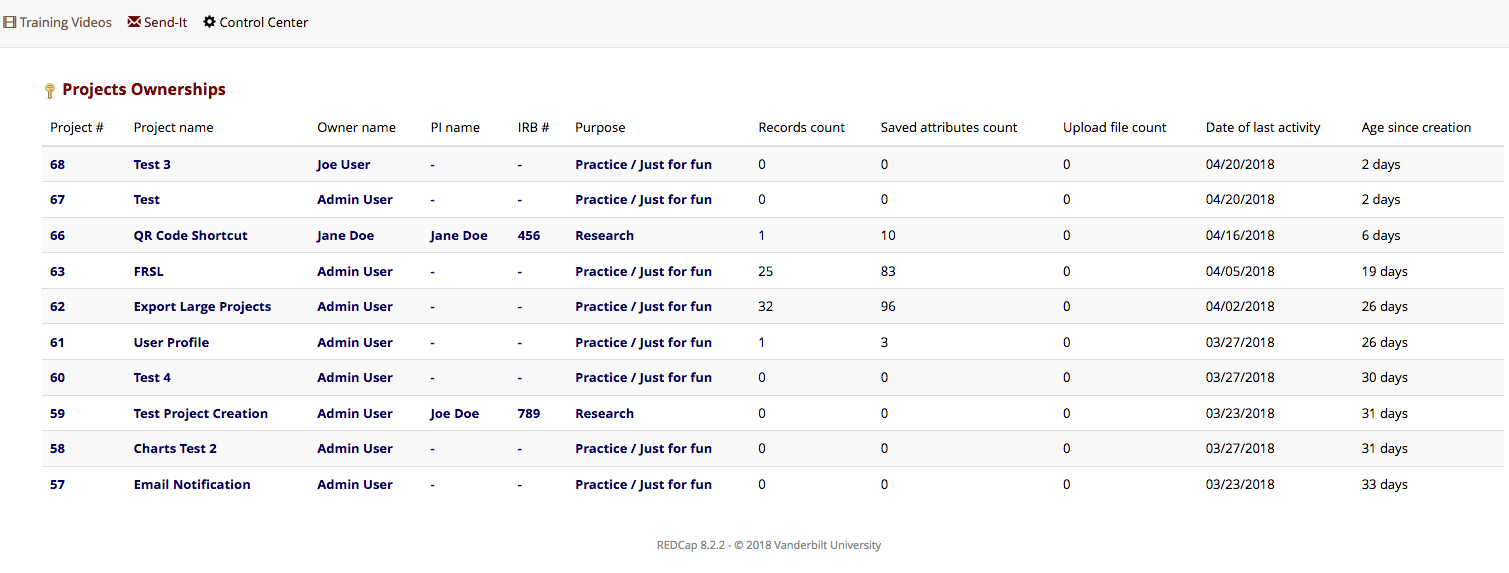
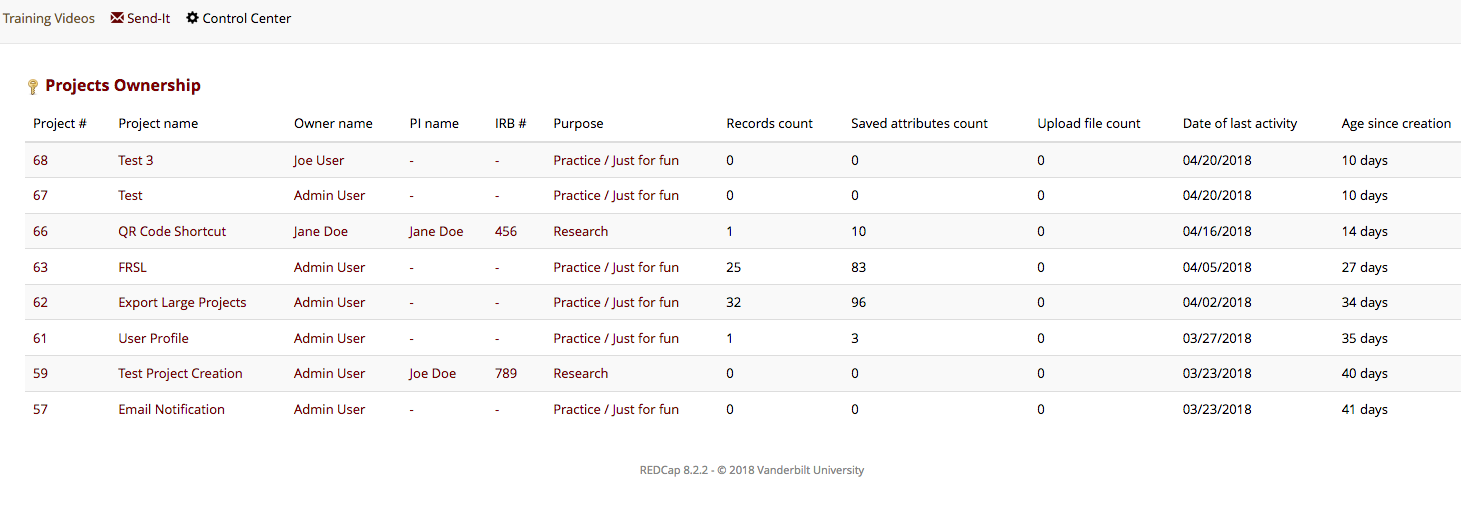
Relocating the link to the project ownership list plugin.

diff --git a/css/my-projects.css b/css/my-projects.css
@@ -1,0 +1,9 @@
+.ownership-list-helper {
+    padding: 0;
+    margin-bottom: 15px;
+}
+
+.ownership-list-helper a {
+    text-decoration: underline;
+    color: #800000;
+}

diff --git a/js/my-projects.js b/js/my-projects.js
@@ -1,0 +1,3 @@
+$(document).ready(function() {
+    $('#proj_table').before(projectOwnership.ownershipListHelper);
+});

diff --git a/js/ownership-list.js b/js/ownership-list.js
@@ -1,0 +1,3 @@
+$(document).ready(function() {
+    $('#nav-tab-home').removeClass('active');
+});

diff --git a/css/ownership-list.css b/css/ownership-list.css
@@ -3,5 +3,5 @@
 }
 
 #project-ownership-list a {
-    font-weight: bold;
+    color: #800000;
 }

diff --git a/ExternalModule.php b/ExternalModule.php
@@ -54,18 +54,18 @@ class ExternalModule extends AbstractExternalModule {
             // Copy project form.
             $context = 'copy';
         }
-        elseif (strpos(PAGE, substr(APP_PATH_WEBROOT_PARENT, 1) . 'index.php') === 0) {
-            if (empty($_GET['action'])) {
-                $link = RCView::img(array('src' => APP_PATH_IMAGES . 'key.png'));
-                $link .= ' ' . RCView::b('Project ownership list');
-                $link = RCView::a(array('href' => $this->getUrl('plugins/ownership_list.php')), $link);
-
-                $this->setJsSettings(array('listLink' => RCView::div(array('style' => 'margin-top: 25px;'), $link)));
-                $this->includeJs('js/home.js');
-            }
-            elseif ($_GET['action'] == 'create') {
+        elseif (strpos(PAGE, substr(APP_PATH_WEBROOT_PARENT, 1) . 'index.php') === 0 && !empty($_GET['action'])) {
+            if ($_GET['action'] == 'create') {
                 // Create project form.
                 $context = 'create';
+            }
+            elseif ($_GET['action'] == 'myprojects') {
+                $helper = RCView::a(array('href' => $this->getUrl('plugins/ownership_list.php')), 'Project Ownership List');
+                $helper = 'To review and edit ownership of the projects you have access to, visit the ' . $helper . '.';
+
+                $this->setJsSettings(array('ownershipListHelper' => RCView::div(array('class' => 'ownership-list-helper col-sm-12'), $helper)));
+                $this->includeJs('js/my-projects.js');
+                $this->includeCss('css/my-projects.css');
             }
         }
 
@@ -316,7 +316,7 @@ class ExternalModule extends AbstractExternalModule {
      * @param string $path
      *   The relative path to the css file.
      */
-    protected function includeCss($path) {
+    function includeCss($path) {
         echo '<link rel="stylesheet" href="' . $this->getUrl($path) . '">';
     }
 
@@ -326,7 +326,7 @@ class ExternalModule extends AbstractExternalModule {
      * @param string $path
      *   The relative path to the js file.
      */
-    protected function includeJs($path) {
+    function includeJs($path) {
         echo '<script src="' . $this->getUrl($path) . '"></script>';
     }
 

diff --git a/plugins/ownership_list.php b/plugins/ownership_list.php
@@ -15,6 +15,10 @@ $objHtmlPage->PrintHeader();
 require_once APP_PATH_VIEWS . 'HomeTabs.php';
 echo RCView::div(array('class' => 'projhdr'), RCView::img(array('src' => APP_PATH_IMAGES . 'key.png')) . ' Projects Ownership');
 
+// Adding custom styles and scripts.
+$module->includeCss('css/ownership-list.css');
+$module->includeJs('js/ownership-list.js');
+
 $curr_page = empty($_GET['pager']) || $_GET['pager'] != intval($_GET['pager']) ? 1 : $_GET['pager'];
 $count_sql = 'SELECT COUNT(o.pid) as total_rows FROM redcap_project_ownership o
               INNER JOIN redcap_projects p ON p.project_id = o.pid';
@@ -246,7 +250,6 @@ if ($total_rows > PROJECT_OWNERSHIP_LIST_MAX_SIZE) {
 }
 ?>
 
-<link rel="stylesheet" href="<?php echo $module->getUrl('css/ownership-list.css'); ?>">
 <div id="project-ownership-list" class="table-responsive">
     <table class="table table-striped">
         <thead>

diff --git a/README.md b/README.md
@@ -29,7 +29,7 @@ The same fieldset from project creation page may be seen at project settings mod
 ![Project settings page](img/edit_project.png)
 
 ## Projects ownership list
-A global list of projects ownership is accessible at the home page.
+A global list of projects ownership is accessible at __My Projects__ page.
 
 ![Ownership list link](img/ownership_list_link.png)
 
